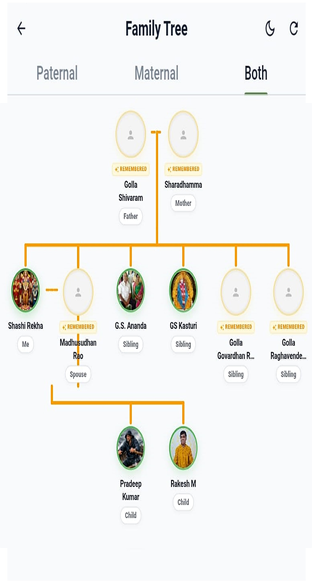
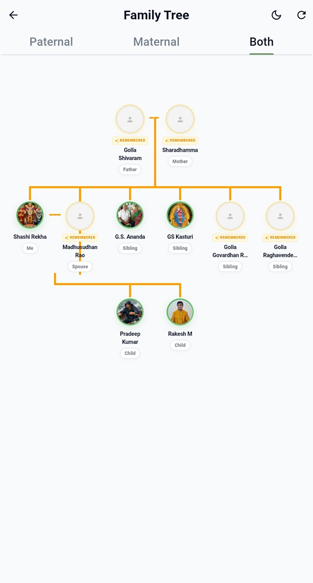
new

diff --git a/speedarp_comparison.html b/speedarp_comparison.html
@@ -1,0 +1,264 @@
+<!DOCTYPE html>
+<html lang="en">
+<head>
+    <meta charset="UTF-8">
+    <meta name="viewport" content="width=device-width, initial-scale=1.0">
+    <title>Social Platform Comparison - Speedarp</title>
+
+    <!-- Bootstrap 5.0.0-beta1 -->
+    <link href="https://cdn.jsdelivr.net/npm/bootstrap@5.0.0-beta1/dist/css/bootstrap.min.css" rel="stylesheet">
+
+    <style>
+        body {
+            margin: 0;
+            padding: 30px 15px;
+            background: #fff;
+            font-family: Arial, Helvetica, sans-serif;
+            color: #222;
+        }
+
+        .comparison-wrapper {
+            max-width: 880px;
+            margin: 0 auto;
+            background: #fff;
+        }
+
+        .comparison-table {
+            width: 100%;
+            margin-bottom: 0;
+            border-collapse: collapse;
+            font-size: 12px;
+        }
+
+        .comparison-table th,
+        .comparison-table td {
+            padding: 9px 12px;
+            vertical-align: middle;
+            border: 1px solid #e9e9e9;
+            line-height: 1.45;
+        }
+
+        .comparison-table thead th {
+            font-weight: 700;
+            color: #222;
+            background: #fff;
+            border: 1px solid #ddd;
+            white-space: nowrap;
+        }
+
+        .comparison-table thead th:first-child {
+            width: 24%;
+        }
+
+        .comparison-table thead th:not(:first-child) {
+            width: 19%;
+        }
+
+        .feature {
+            font-weight: 500;
+            color: #333;
+        }
+
+        .platform {
+            font-weight: 700;
+        }
+
+        .icon {
+            display: inline-block;
+            width: 18px;
+            margin-right: 3px;
+            text-align: center;
+            font-size: 13px;
+            vertical-align: middle;
+        }
+
+        .yes {
+            color: #16a34a;
+        }
+
+        .no {
+            color: #b42318;
+        }
+
+        .partial {
+            color: #d19a00;
+        }
+
+        .text-wrap {
+            display: inline;
+        }
+
+        @media (max-width: 767.98px) {
+            body {
+                padding: 15px 8px;
+            }
+
+            .table-responsive {
+                border: 0;
+            }
+
+            .comparison-table {
+                font-size: 11px;
+                min-width: 850px;
+            }
+
+            .comparison-table th,
+            .comparison-table td {
+                padding: 8px 9px;
+            }
+        }
+    </style>
+</head>
+
+<body>
+
+<div class="container-fluid">
+    <div class="comparison-wrapper">
+        <div class="table-responsive">
+            <table class="comparison-table">
+                <thead>
+                    <tr>
+                        <th>Feature / Purpose</th>
+                        <th class="platform">Facebook</th>
+                        <th class="platform">Instagram</th>
+                        <th class="platform">WhatsApp</th>
+                        <th class="platform">Speedarp</th>
+                    </tr>
+                </thead>
+
+                <tbody>
+                    <tr>
+                        <td class="feature">Primary purpose</td>
+                        <td>Connect with friends, communities<br>&amp; interests</td>
+                        <td>Share photos, videos &amp;<br>lifestyle</td>
+                        <td>Private messaging &amp;<br>group communication</td>
+                        <td>Build and preserve family<br><strong>connections</strong></td>
+                    </tr>
+
+                    <tr>
+                        <td class="feature">Who is it for?</td>
+                        <td>Everyone</td>
+                        <td>Everyone</td>
+                        <td>Everyone</td>
+                        <td>Families &amp; relatives</td>
+                    </tr>
+
+                    <tr>
+                        <td class="feature">Family-focused by design</td>
+                        <td><span class="icon no">❌</span>No</td>
+                        <td><span class="icon no">❌</span>No</td>
+                        <td><span class="icon no">❌</span>No</td>
+                        <td><span class="icon yes">✅</span>Yes</td>
+                    </tr>
+
+                    <tr>
+                        <td class="feature">Private family network</td>
+                        <td><span class="icon partial">⚠</span>Can create groups</td>
+                        <td><span class="icon no">❌</span>No</td>
+                        <td><span class="icon partial">⚠</span>Family groups</td>
+                        <td><span class="icon yes">✅</span>Core purpose</td>
+                    </tr>
+
+                    <tr>
+                        <td class="feature">Family Tree</td>
+                        <td><span class="icon no">❌</span></td>
+                        <td><span class="icon no">❌</span></td>
+                        <td><span class="icon no">❌</span></td>
+                        <td><span class="icon yes">✅</span></td>
+                    </tr>
+
+                    <tr>
+                        <td class="feature">Family relationships<br>mapped visually</td>
+                        <td><span class="icon no">❌</span></td>
+                        <td><span class="icon no">❌</span></td>
+                        <td><span class="icon no">❌</span></td>
+                        <td><span class="icon yes">✅</span></td>
+                    </tr>
+
+                    <tr>
+                        <td class="feature">Cousin-focused features</td>
+                        <td><span class="icon no">❌</span></td>
+                        <td><span class="icon no">❌</span></td>
+                        <td><span class="icon no">❌</span></td>
+                        <td><span class="icon yes">✅</span></td>
+                    </tr>
+
+                    <tr>
+                        <td class="feature">Family Events</td>
+                        <td><span class="icon partial">⚠</span>General events</td>
+                        <td><span class="icon no">❌</span></td>
+                        <td><span class="icon partial">⚠</span>Group planning</td>
+                        <td><span class="icon yes">✅</span>Family-specific</td>
+                    </tr>
+
+                    <tr>
+                        <td class="feature">Family Memories</td>
+                        <td><span class="icon partial">⚠</span>Mixed with general content</td>
+                        <td><span class="icon partial">⚠</span>Photo-centric</td>
+                        <td><span class="icon partial">⚠</span>Scattered in chats</td>
+                        <td><span class="icon yes">✅</span>Organized as family<br>memories</td>
+                    </tr>
+
+                    <tr>
+                        <td class="feature">Family Heritage / Legacy</td>
+                        <td><span class="icon no">❌</span></td>
+                        <td><span class="icon no">❌</span></td>
+                        <td><span class="icon no">❌</span></td>
+                        <td><span class="icon yes">✅</span>Core feature</td>
+                    </tr>
+
+                    <tr>
+                        <td class="feature">Remembered family<br>members</td>
+                        <td><span class="icon partial">⚠</span>Profile-based</td>
+                        <td><span class="icon no">❌</span></td>
+                        <td><span class="icon no">❌</span></td>
+                        <td><span class="icon yes">✅</span>Dedicated remembrance</td>
+                    </tr>
+
+                    <tr>
+                        <td class="feature">Family occupations /<br>family knowledge</td>
+                        <td><span class="icon no">❌</span></td>
+                        <td><span class="icon no">❌</span></td>
+                        <td><span class="icon no">❌</span></td>
+                        <td><span class="icon yes">✅</span>Occupational Compass</td>
+                    </tr>
+
+                    <tr>
+                        <td class="feature">Family traditions &amp; rituals</td>
+                        <td><span class="icon no">❌</span></td>
+                        <td><span class="icon no">❌</span></td>
+                        <td><span class="icon no">❌</span></td>
+                        <td><span class="icon yes">✅</span>Ritual Recorder</td>
+                    </tr>
+
+                    <tr>
+                        <td class="feature">Cousin bonding</td>
+                        <td><span class="icon no">❌</span></td>
+                        <td><span class="icon partial">⚠</span>Social interaction</td>
+                        <td><span class="icon partial">⚠</span>Chat interaction</td>
+                        <td><span class="icon yes">✅</span>Designed around it</td>
+                    </tr>
+
+                    <tr>
+                        <td class="feature">Family-specific feed</td>
+                        <td><span class="icon no">❌</span>General feed</td>
+                        <td><span class="icon no">❌</span>Algorithmic content</td>
+                        <td><span class="icon no">❌</span>Chat-based</td>
+                        <td><span class="icon yes">✅</span>KinFeed</td>
+                    </tr>
+
+                    <tr>
+                        <td class="feature">Family conversations</td>
+                        <td><span class="icon partial">⚠</span>Groups</td>
+                        <td><span class="icon partial">⚠</span>DMs</td>
+                        <td><span class="icon yes">✅</span>Excellent</td>
+                        <td><span class="icon yes">✅</span>Family-specific</td>
+                    </tr>
+                </tbody>
+            </table>
+        </div>
+    </div>
+</div>
+
+</body>
+</html>
